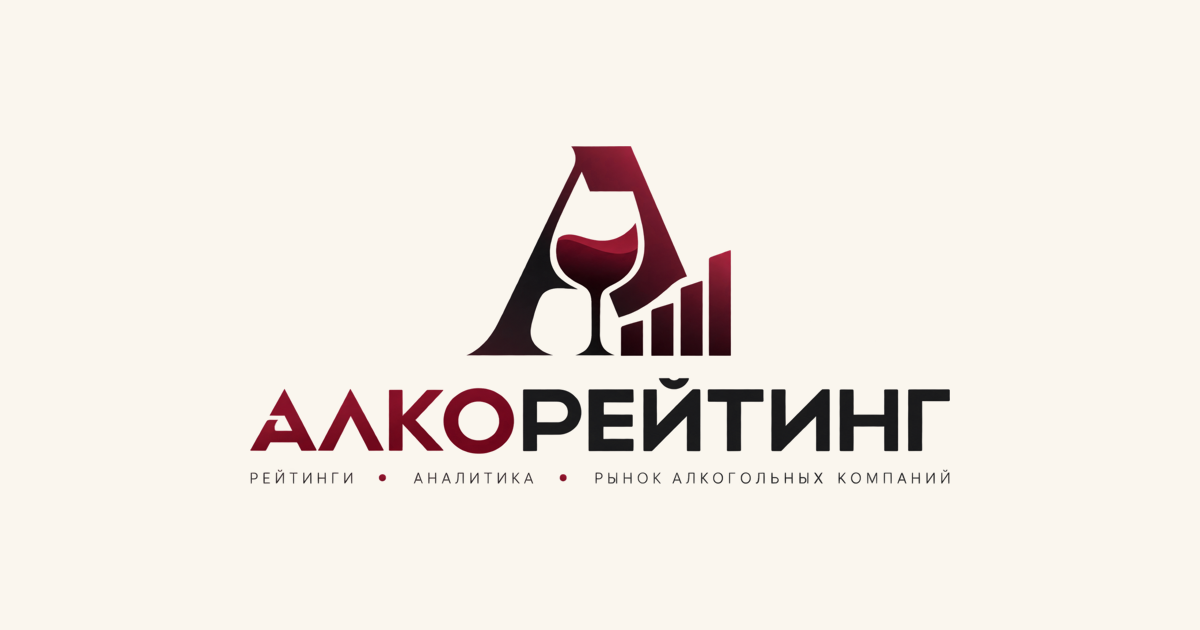
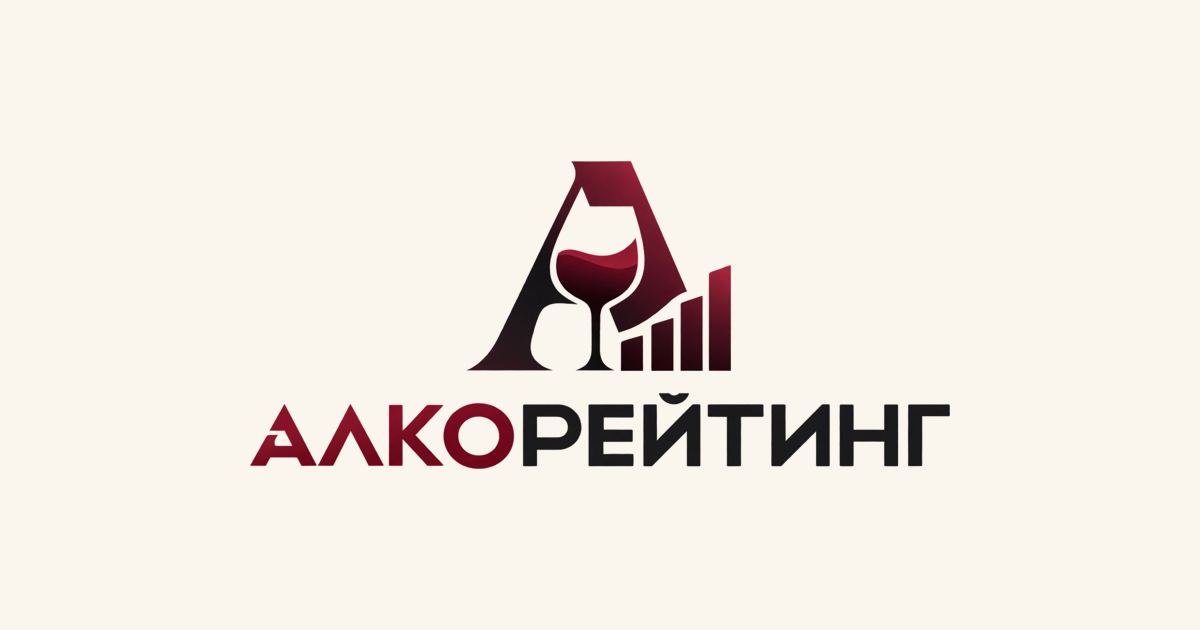
Логотип без нижней приписки
Claude-Session: https://claude.ai/code/session_01229pZbdi51qJHgsndZag4k

Changed region(s): [[0.185, 0.2111, 0.8017, 0.7841]]

diff --git a/c/1buyup-ru.html b/c/1buyup-ru.html
@@ -36,7 +36,7 @@
 <body>
 <header class="header" id="header">
 <div class="container header-inner">
-<a href="../" class="nav-logo" aria-label="АЛКОРЕЙТИНГ — главная"><img src="../assets/logo.png" alt="АЛКОРЕЙТИНГ" width="140" height="68"></a>
+<a href="../" class="nav-logo" aria-label="АЛКОРЕЙТИНГ — главная"><img src="../assets/logo.png" alt="АЛКОРЕЙТИНГ" width="140" height="74"></a>
 <span class="age-badge" title="Сайт для лиц старше 18 лет">18+</span>
 <nav class="nav-links" id="navLinks" aria-label="Главная навигация">
 <a href="../">Главная</a>
@@ -183,7 +183,7 @@
 <div class="container">
 <div class="footer-main">
 <div>
-<a href="../" class="nav-logo footer-brand" aria-label="АЛКОРЕЙТИНГ — главная"><img src="../assets/logo.png" alt="АЛКОРЕЙТИНГ" width="160" height="77"></a>
+<a href="../" class="nav-logo footer-brand" aria-label="АЛКОРЕЙТИНГ — главная"><img src="../assets/logo.png" alt="АЛКОРЕЙТИНГ" width="160" height="85"></a>
 <p class="footer-logo-copy">Где продать алкоголь в Москве и Московской области: рейтинг скупок коньяка, виски, вина, шампанского, рома и арманьяка. Оценка бутылок, цены выкупа, условия сделки.</p>
 </div>
 <div><h3 class="footer-title">Разделы</h3><div class="footer-links">

diff --git a/c/700ml-ru.html b/c/700ml-ru.html
@@ -36,7 +36,7 @@
 <body>
 <header class="header" id="header">
 <div class="container header-inner">
-<a href="../" class="nav-logo" aria-label="АЛКОРЕЙТИНГ — главная"><img src="../assets/logo.png" alt="АЛКОРЕЙТИНГ" width="140" height="68"></a>
+<a href="../" class="nav-logo" aria-label="АЛКОРЕЙТИНГ — главная"><img src="../assets/logo.png" alt="АЛКОРЕЙТИНГ" width="140" height="74"></a>
 <span class="age-badge" title="Сайт для лиц старше 18 лет">18+</span>
 <nav class="nav-links" id="navLinks" aria-label="Главная навигация">
 <a href="../">Главная</a>
@@ -184,7 +184,7 @@
 <div class="container">
 <div class="footer-main">
 <div>
-<a href="../" class="nav-logo footer-brand" aria-label="АЛКОРЕЙТИНГ — главная"><img src="../assets/logo.png" alt="АЛКОРЕЙТИНГ" width="160" height="77"></a>
+<a href="../" class="nav-logo footer-brand" aria-label="АЛКОРЕЙТИНГ — главная"><img src="../assets/logo.png" alt="АЛКОРЕЙТИНГ" width="160" height="85"></a>
 <p class="footer-logo-copy">Где продать алкоголь в Москве и Московской области: рейтинг скупок коньяка, виски, вина, шампанского, рома и арманьяка. Оценка бутылок, цены выкупа, условия сделки.</p>
 </div>
 <div><h3 class="footer-title">Разделы</h3><div class="footer-links">

diff --git a/c/alcobuyer-ru.html b/c/alcobuyer-ru.html
@@ -36,7 +36,7 @@
 <body>
 <header class="header" id="header">
 <div class="container header-inner">
-<a href="../" class="nav-logo" aria-label="АЛКОРЕЙТИНГ — главная"><img src="../assets/logo.png" alt="АЛКОРЕЙТИНГ" width="140" height="68"></a>
+<a href="../" class="nav-logo" aria-label="АЛКОРЕЙТИНГ — главная"><img src="../assets/logo.png" alt="АЛКОРЕЙТИНГ" width="140" height="74"></a>
 <span class="age-badge" title="Сайт для лиц старше 18 лет">18+</span>
 <nav class="nav-links" id="navLinks" aria-label="Главная навигация">
 <a href="../">Главная</a>
@@ -181,7 +181,7 @@
 <div class="container">
 <div class="footer-main">
 <div>
-<a href="../" class="nav-logo footer-brand" aria-label="АЛКОРЕЙТИНГ — главная"><img src="../assets/logo.png" alt="АЛКОРЕЙТИНГ" width="160" height="77"></a>
+<a href="../" class="nav-logo footer-brand" aria-label="АЛКОРЕЙТИНГ — главная"><img src="../assets/logo.png" alt="АЛКОРЕЙТИНГ" width="160" height="85"></a>
 <p class="footer-logo-copy">Где продать алкоголь в Москве и Московской области: рейтинг скупок коньяка, виски, вина, шампанского, рома и арманьяка. Оценка бутылок, цены выкупа, условия сделки.</p>
 </div>
 <div><h3 class="footer-title">Разделы</h3><div class="footer-links">

diff --git a/c/alcovikup-ru.html b/c/alcovikup-ru.html
@@ -36,7 +36,7 @@
 <body>
 <header class="header" id="header">
 <div class="container header-inner">
-<a href="../" class="nav-logo" aria-label="АЛКОРЕЙТИНГ — главная"><img src="../assets/logo.png" alt="АЛКОРЕЙТИНГ" width="140" height="68"></a>
+<a href="../" class="nav-logo" aria-label="АЛКОРЕЙТИНГ — главная"><img src="../assets/logo.png" alt="АЛКОРЕЙТИНГ" width="140" height="74"></a>
 <span class="age-badge" title="Сайт для лиц старше 18 лет">18+</span>
 <nav class="nav-links" id="navLinks" aria-label="Главная навигация">
 <a href="../">Главная</a>
@@ -181,7 +181,7 @@
 <div class="container">
 <div class="footer-main">
 <div>
-<a href="../" class="nav-logo footer-brand" aria-label="АЛКОРЕЙТИНГ — главная"><img src="../assets/logo.png" alt="АЛКОРЕЙТИНГ" width="160" height="77"></a>
+<a href="../" class="nav-logo footer-brand" aria-label="АЛКОРЕЙТИНГ — главная"><img src="../assets/logo.png" alt="АЛКОРЕЙТИНГ" width="160" height="85"></a>
 <p class="footer-logo-copy">Где продать алкоголь в Москве и Московской области: рейтинг скупок коньяка, виски, вина, шампанского, рома и арманьяка. Оценка бутылок, цены выкупа, условия сделки.</p>
 </div>
 <div><h3 class="footer-title">Разделы</h3><div class="footer-links">

diff --git a/c/alkolombard-ru.html b/c/alkolombard-ru.html
@@ -36,7 +36,7 @@
 <body>
 <header class="header" id="header">
 <div class="container header-inner">
-<a href="../" class="nav-logo" aria-label="АЛКОРЕЙТИНГ — главная"><img src="../assets/logo.png" alt="АЛКОРЕЙТИНГ" width="140" height="68"></a>
+<a href="../" class="nav-logo" aria-label="АЛКОРЕЙТИНГ — главная"><img src="../assets/logo.png" alt="АЛКОРЕЙТИНГ" width="140" height="74"></a>
 <span class="age-badge" title="Сайт для лиц старше 18 лет">18+</span>
 <nav class="nav-links" id="navLinks" aria-label="Главная навигация">
 <a href="../">Главная</a>
@@ -181,7 +181,7 @@
 <div class="container">
 <div class="footer-main">
 <div>
-<a href="../" class="nav-logo footer-brand" aria-label="АЛКОРЕЙТИНГ — главная"><img src="../assets/logo.png" alt="АЛКОРЕЙТИНГ" width="160" height="77"></a>
+<a href="../" class="nav-logo footer-brand" aria-label="АЛКОРЕЙТИНГ — главная"><img src="../assets/logo.png" alt="АЛКОРЕЙТИНГ" width="160" height="85"></a>
 <p class="footer-logo-copy">Где продать алкоголь в Москве и Московской области: рейтинг скупок коньяка, виски, вина, шампанского, рома и арманьяка. Оценка бутылок, цены выкупа, условия сделки.</p>
 </div>
 <div><h3 class="footer-title">Разделы</h3><div class="footer-links">

diff --git a/c/alkoprikup-ru.html b/c/alkoprikup-ru.html
@@ -36,7 +36,7 @@
 <body>
 <header class="header" id="header">
 <div class="container header-inner">
-<a href="../" class="nav-logo" aria-label="АЛКОРЕЙТИНГ — главная"><img src="../assets/logo.png" alt="АЛКОРЕЙТИНГ" width="140" height="68"></a>
+<a href="../" class="nav-logo" aria-label="АЛКОРЕЙТИНГ — главная"><img src="../assets/logo.png" alt="АЛКОРЕЙТИНГ" width="140" height="74"></a>
 <span class="age-badge" title="Сайт для лиц старше 18 лет">18+</span>
 <nav class="nav-links" id="navLinks" aria-label="Главная навигация">
 <a href="../">Главная</a>
@@ -181,7 +181,7 @@
 <div class="container">
 <div class="footer-main">
 <div>
-<a href="../" class="nav-logo footer-brand" aria-label="АЛКОРЕЙТИНГ — главная"><img src="../assets/logo.png" alt="АЛКОРЕЙТИНГ" width="160" height="77"></a>
+<a href="../" class="nav-logo footer-brand" aria-label="АЛКОРЕЙТИНГ — главная"><img src="../assets/logo.png" alt="АЛКОРЕЙТИНГ" width="160" height="85"></a>
 <p class="footer-logo-copy">Где продать алкоголь в Москве и Московской области: рейтинг скупок коньяка, виски, вина, шампанского, рома и арманьяка. Оценка бутылок, цены выкупа, условия сделки.</p>
 </div>
 <div><h3 class="footer-title">Разделы</h3><div class="footer-links">

diff --git a/c/cupajclub-ru.html b/c/cupajclub-ru.html
@@ -36,7 +36,7 @@
 <body>
 <header class="header" id="header">
 <div class="container header-inner">
-<a href="../" class="nav-logo" aria-label="АЛКОРЕЙТИНГ — главная"><img src="../assets/logo.png" alt="АЛКОРЕЙТИНГ" width="140" height="68"></a>
+<a href="../" class="nav-logo" aria-label="АЛКОРЕЙТИНГ — главная"><img src="../assets/logo.png" alt="АЛКОРЕЙТИНГ" width="140" height="74"></a>
 <span class="age-badge" title="Сайт для лиц старше 18 лет">18+</span>
 <nav class="nav-links" id="navLinks" aria-label="Главная навигация">
 <a href="../">Главная</a>
@@ -181,7 +181,7 @@
 <div class="container">
 <div class="footer-main">
 <div>
-<a href="../" class="nav-logo footer-brand" aria-label="АЛКОРЕЙТИНГ — главная"><img src="../assets/logo.png" alt="АЛКОРЕЙТИНГ" width="160" height="77"></a>
+<a href="../" class="nav-logo footer-brand" aria-label="АЛКОРЕЙТИНГ — главная"><img src="../assets/logo.png" alt="АЛКОРЕЙТИНГ" width="160" height="85"></a>
 <p class="footer-logo-copy">Где продать алкоголь в Москве и Московской области: рейтинг скупок коньяка, виски, вина, шампанского, рома и арманьяка. Оценка бутылок, цены выкупа, условия сделки.</p>
 </div>
 <div><h3 class="footer-title">Разделы</h3><div class="footer-links">

diff --git a/c/diamant-alko-ru.html b/c/diamant-alko-ru.html
@@ -36,7 +36,7 @@
 <body>
 <header class="header" id="header">
 <div class="container header-inner">
-<a href="../" class="nav-logo" aria-label="АЛКОРЕЙТИНГ — главная"><img src="../assets/logo.png" alt="АЛКОРЕЙТИНГ" width="140" height="68"></a>
+<a href="../" class="nav-logo" aria-label="АЛКОРЕЙТИНГ — главная"><img src="../assets/logo.png" alt="АЛКОРЕЙТИНГ" width="140" height="74"></a>
 <span class="age-badge" title="Сайт для лиц старше 18 лет">18+</span>
 <nav class="nav-links" id="navLinks" aria-label="Главная навигация">
 <a href="../">Главная</a>
@@ -181,7 +181,7 @@
 <div class="container">
 <div class="footer-main">
 <div>
-<a href="../" class="nav-logo footer-brand" aria-label="АЛКОРЕЙТИНГ — главная"><img src="../assets/logo.png" alt="АЛКОРЕЙТИНГ" width="160" height="77"></a>
+<a href="../" class="nav-logo footer-brand" aria-label="АЛКОРЕЙТИНГ — главная"><img src="../assets/logo.png" alt="АЛКОРЕЙТИНГ" width="160" height="85"></a>
 <p class="footer-logo-copy">Где продать алкоголь в Москве и Московской области: рейтинг скупок коньяка, виски, вина, шампанского, рома и арманьяка. Оценка бутылок, цены выкупа, условия сделки.</p>
 </div>
 <div><h3 class="footer-title">Разделы</h3><div class="footer-links">

diff --git a/c/kupimalko-ru.html b/c/kupimalko-ru.html
@@ -36,7 +36,7 @@
 <body>
 <header class="header" id="header">
 <div class="container header-inner">
-<a href="../" class="nav-logo" aria-label="АЛКОРЕЙТИНГ — главная"><img src="../assets/logo.png" alt="АЛКОРЕЙТИНГ" width="140" height="68"></a>
+<a href="../" class="nav-logo" aria-label="АЛКОРЕЙТИНГ — главная"><img src="../assets/logo.png" alt="АЛКОРЕЙТИНГ" width="140" height="74"></a>
 <span class="age-badge" title="Сайт для лиц старше 18 лет">18+</span>
 <nav class="nav-links" id="navLinks" aria-label="Главная навигация">
 <a href="../">Главная</a>
@@ -181,7 +181,7 @@
 <div class="container">
 <div class="footer-main">
 <div>
-<a href="../" class="nav-logo footer-brand" aria-label="АЛКОРЕЙТИНГ — главная"><img src="../assets/logo.png" alt="АЛКОРЕЙТИНГ" width="160" height="77"></a>
+<a href="../" class="nav-logo footer-brand" aria-label="АЛКОРЕЙТИНГ — главная"><img src="../assets/logo.png" alt="АЛКОРЕЙТИНГ" width="160" height="85"></a>
 <p class="footer-logo-copy">Где продать алкоголь в Москве и Московской области: рейтинг скупок коньяка, виски, вина, шампанского, рома и арманьяка. Оценка бутылок, цены выкупа, условия сделки.</p>
 </div>
 <div><h3 class="footer-title">Разделы</h3><div class="footer-links">

diff --git a/c/oldcognac-ru.html b/c/oldcognac-ru.html
@@ -36,7 +36,7 @@
 <body>
 <header class="header" id="header">
 <div class="container header-inner">
-<a href="../" class="nav-logo" aria-label="АЛКОРЕЙТИНГ — главная"><img src="../assets/logo.png" alt="АЛКОРЕЙТИНГ" width="140" height="68"></a>
+<a href="../" class="nav-logo" aria-label="АЛКОРЕЙТИНГ — главная"><img src="../assets/logo.png" alt="АЛКОРЕЙТИНГ" width="140" height="74"></a>
 <span class="age-badge" title="Сайт для лиц старше 18 лет">18+</span>
 <nav class="nav-links" id="navLinks" aria-label="Главная навигация">
 <a href="../">Главная</a>
@@ -181,7 +181,7 @@
 <div class="container">
 <div class="footer-main">
 <div>
-<a href="../" class="nav-logo footer-brand" aria-label="АЛКОРЕЙТИНГ — главная"><img src="../assets/logo.png" alt="АЛКОРЕЙТИНГ" width="160" height="77"></a>
+<a href="../" class="nav-logo footer-brand" aria-label="АЛКОРЕЙТИНГ — главная"><img src="../assets/logo.png" alt="АЛКОРЕЙТИНГ" width="160" height="85"></a>
 <p class="footer-logo-copy">Где продать алкоголь в Москве и Московской области: рейтинг скупок коньяка, виски, вина, шампанского, рома и арманьяка. Оценка бутылок, цены выкупа, условия сделки.</p>
 </div>
 <div><h3 class="footer-title">Разделы</h3><div class="footer-links">

diff --git a/c/probkabar-com.html b/c/probkabar-com.html
@@ -36,7 +36,7 @@
 <body>
 <header class="header" id="header">
 <div class="container header-inner">
-<a href="../" class="nav-logo" aria-label="АЛКОРЕЙТИНГ — главная"><img src="../assets/logo.png" alt="АЛКОРЕЙТИНГ" width="140" height="68"></a>
+<a href="../" class="nav-logo" aria-label="АЛКОРЕЙТИНГ — главная"><img src="../assets/logo.png" alt="АЛКОРЕЙТИНГ" width="140" height="74"></a>
 <span class="age-badge" title="Сайт для лиц старше 18 лет">18+</span>
 <nav class="nav-links" id="navLinks" aria-label="Главная навигация">
 <a href="../">Главная</a>
@@ -181,7 +181,7 @@
 <div class="container">
 <div class="footer-main">
 <div>
-<a href="../" class="nav-logo footer-brand" aria-label="АЛКОРЕЙТИНГ — главная"><img src="../assets/logo.png" alt="АЛКОРЕЙТИНГ" width="160" height="77"></a>
+<a href="../" class="nav-logo footer-brand" aria-label="АЛКОРЕЙТИНГ — главная"><img src="../assets/logo.png" alt="АЛКОРЕЙТИНГ" width="160" height="85"></a>
 <p class="footer-logo-copy">Где продать алкоголь в Москве и Московской области: рейтинг скупок коньяка, виски, вина, шампанского, рома и арманьяка. Оценка бутылок, цены выкупа, условия сделки.</p>
 </div>
 <div><h3 class="footer-title">Разделы</h3><div class="footer-links">

diff --git a/c/prodat-alko-ru.html b/c/prodat-alko-ru.html
@@ -36,7 +36,7 @@
 <body>
 <header class="header" id="header">
 <div class="container header-inner">
-<a href="../" class="nav-logo" aria-label="АЛКОРЕЙТИНГ — главная"><img src="../assets/logo.png" alt="АЛКОРЕЙТИНГ" width="140" height="68"></a>
+<a href="../" class="nav-logo" aria-label="АЛКОРЕЙТИНГ — главная"><img src="../assets/logo.png" alt="АЛКОРЕЙТИНГ" width="140" height="74"></a>
 <span class="age-badge" title="Сайт для лиц старше 18 лет">18+</span>
 <nav class="nav-links" id="navLinks" aria-label="Главная навигация">
 <a href="../">Главная</a>
@@ -181,7 +181,7 @@
 <div class="container">
 <div class="footer-main">
 <div>
-<a href="../" class="nav-logo footer-brand" aria-label="АЛКОРЕЙТИНГ — главная"><img src="../assets/logo.png" alt="АЛКОРЕЙТИНГ" width="160" height="77"></a>
+<a href="../" class="nav-logo footer-brand" aria-label="АЛКОРЕЙТИНГ — главная"><img src="../assets/logo.png" alt="АЛКОРЕЙТИНГ" width="160" height="85"></a>
 <p class="footer-logo-copy">Где продать алкоголь в Москве и Московской области: рейтинг скупок коньяка, виски, вина, шампанского, рома и арманьяка. Оценка бутылок, цены выкупа, условия сделки.</p>
 </div>
 <div><h3 class="footer-title">Разделы</h3><div class="footer-links">
